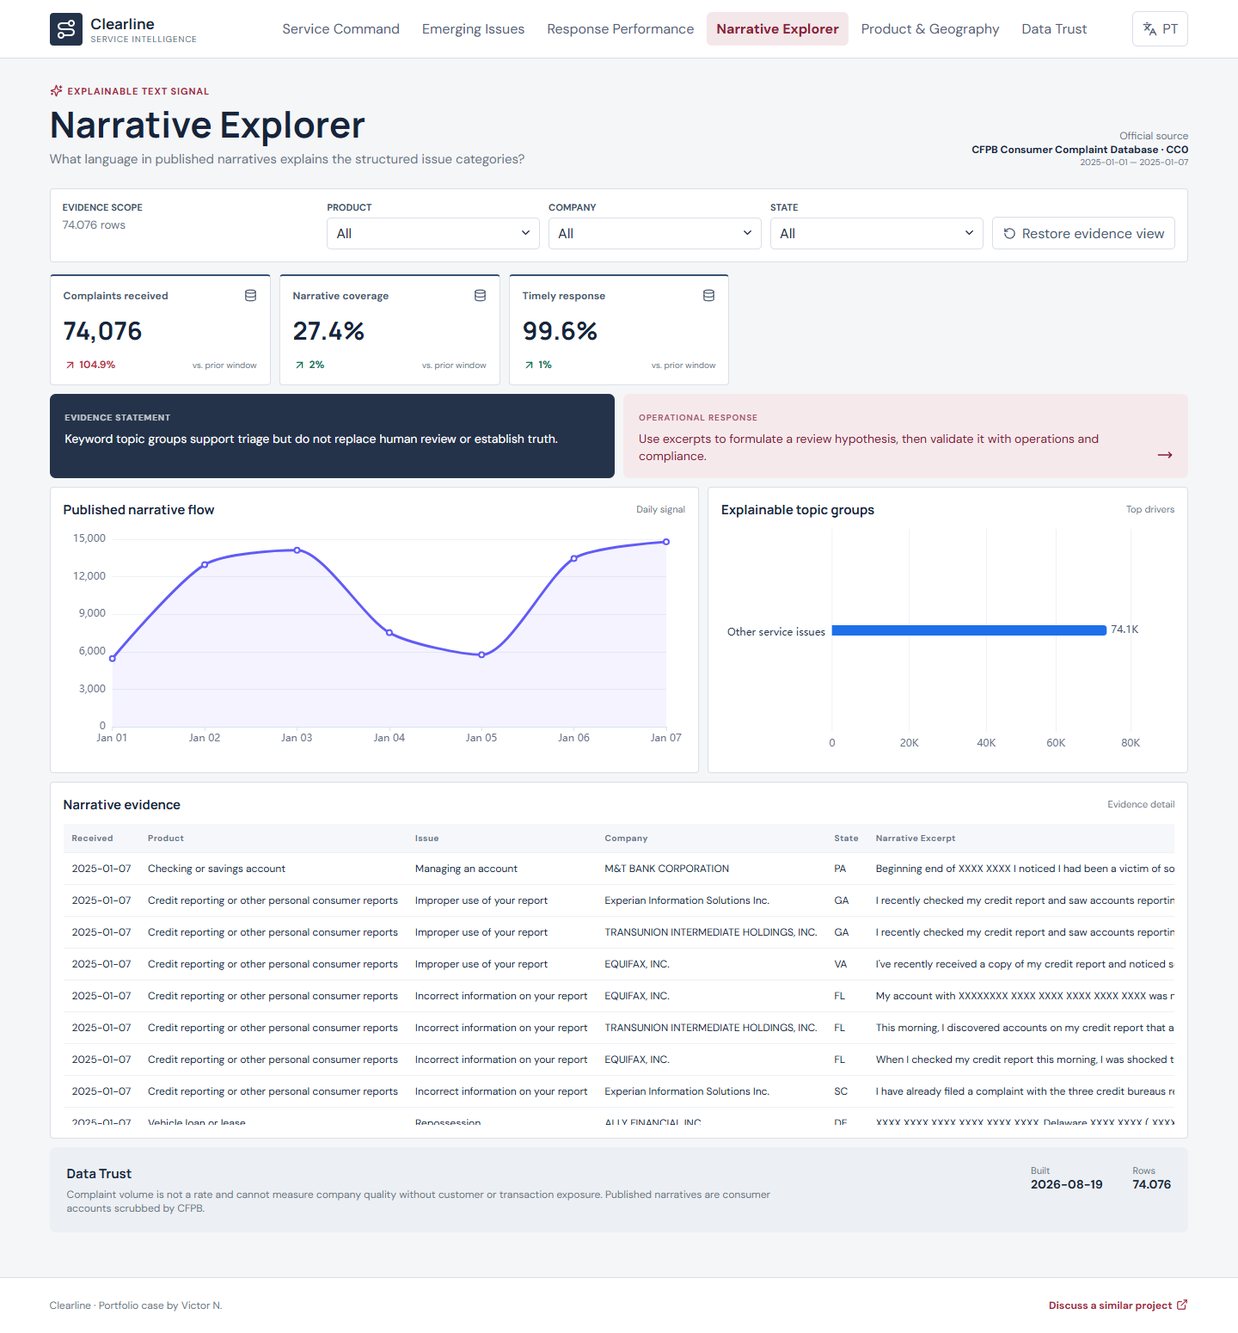
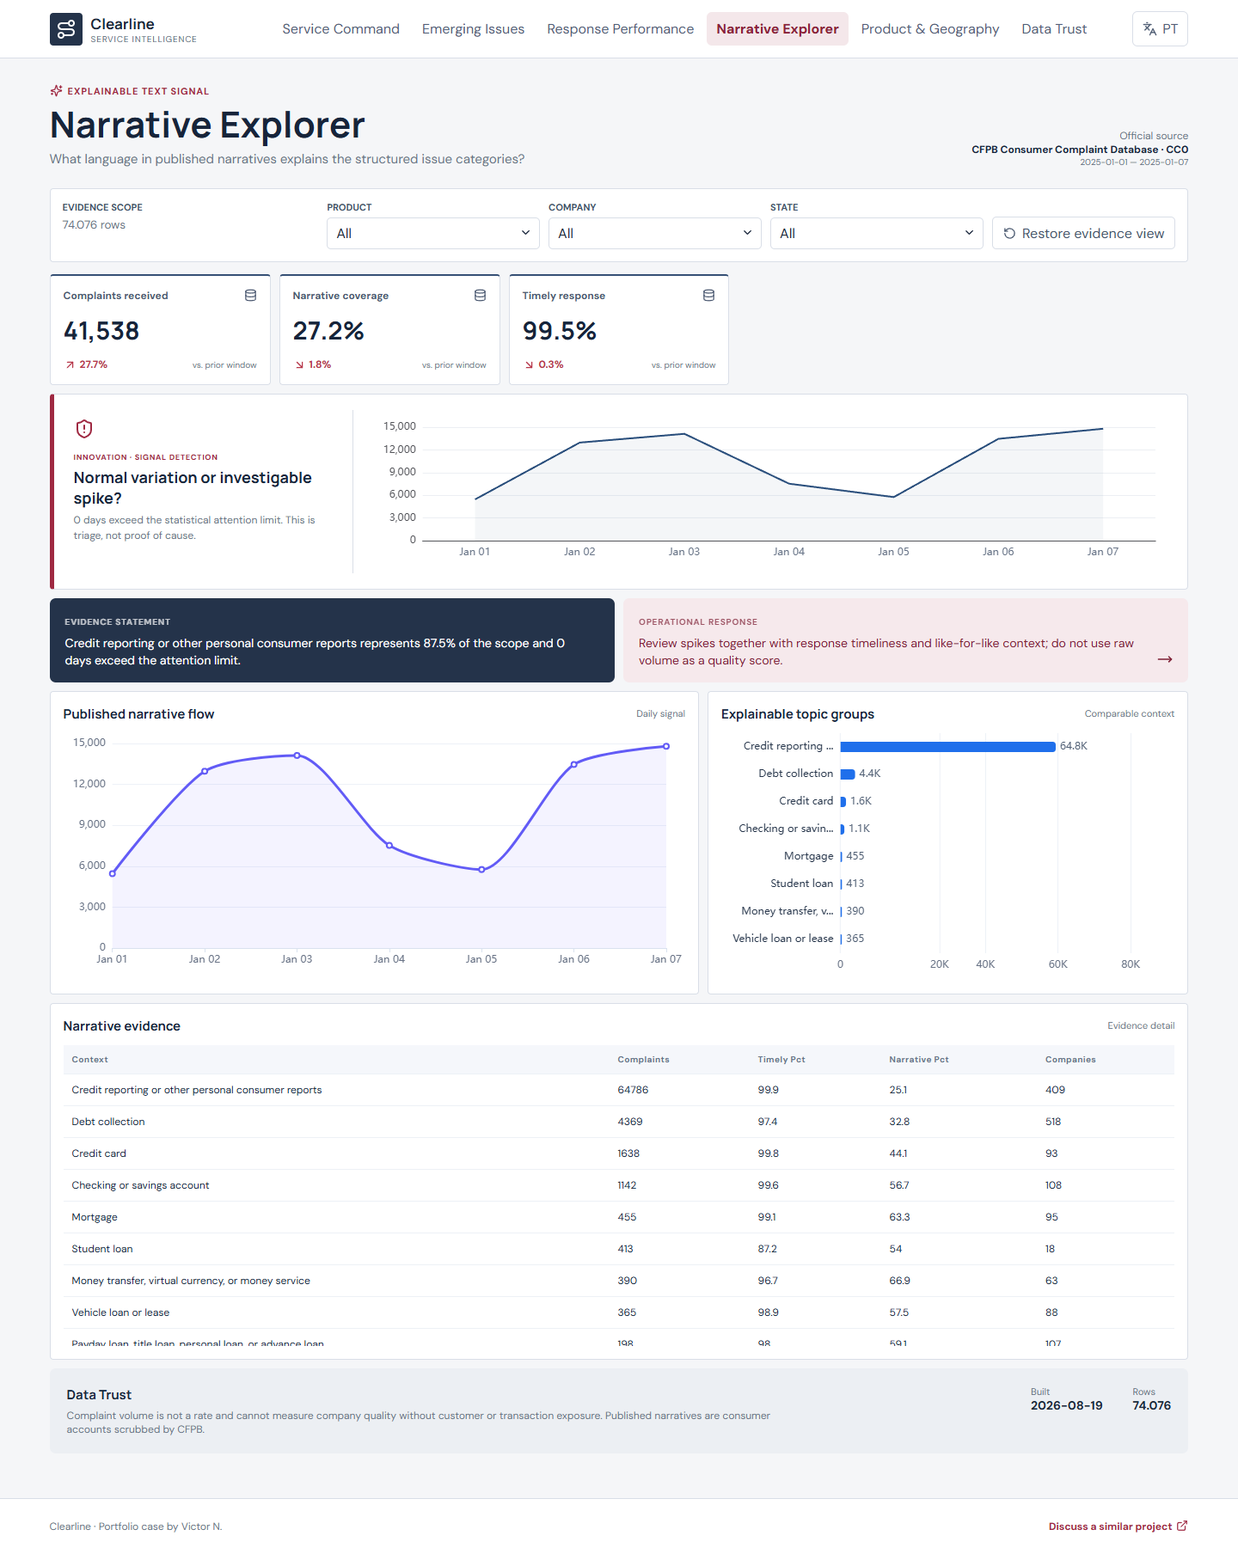
Add evidence-led signal detection workflow

diff --git a/src/App.tsx b/src/App.tsx
@@ -4,6 +4,7 @@ import { BarChart, DataGrid, DecisionNote, MetricCard, TrendChart } from './comp
 import { ui } from './i18n'
 import { MartVerifier } from './MartVerifier'
 import { queryMart, type MartResult } from './queryMart'
+import { IssueControlChart } from './innovation'
 import type { DashboardData, Lang } from './types'
 
 export default function App() {
@@ -12,24 +13,30 @@ export default function App() {
   const [pageId, setPageId] = useState('service')
   const [filters, setFilters] = useState({ channel: '', device: '', country: '' })
   const [mart, setMart] = useState<MartResult | null>(null)
+  const [queryState,setQueryState]=useState<'loading'|'ready'|'error'>('loading')
   useEffect(() => { fetch('./data/dashboard.json').then(r => r.json()).then(setData) }, [])
   useEffect(() => { localStorage.setItem('clearline-lang', lang); document.documentElement.lang = lang === 'pt' ? 'pt-BR' : 'en' }, [lang])
-  useEffect(() => { let active=true; if (!filters.channel && !filters.device && !filters.country) { setMart(null); return }; queryMart(filters).then(result => active && setMart(result)).catch(() => active && setMart(null)); return () => { active=false } }, [filters.channel, filters.device, filters.country])
+  useEffect(()=>{let active=true;setQueryState('loading');queryMart(filters,pageId).then(result=>{if(active){setMart(result);setQueryState('ready')}}).catch(error=>{console.error(error);if(active)setQueryState('error')});return()=>{active=false}},[filters.channel,filters.device,filters.country,pageId])
   if (!data) return <main className="loading"><Activity className="spin" /> Loading Clearline...</main>
   const page = data.pages.find(p => p.id === pageId) ?? data.pages[0]
   const metrics = page.metrics.map(metric => mart?.current[metric.id] === undefined ? metric : { ...metric, value: mart.current[metric.id], previous: mart.previous[metric.id] ?? metric.previous })
   const trend = mart?.trend.length ? mart.trend : page.trend
+  const breakdown=mart?.breakdown.length?mart.breakdown:page.breakdown,detail=mart?.detail.length?mart.detail:page.detail
+  const finding=mart?(lang==='pt'?`${mart.context.topDriver} representa ${(mart.context.topShare*100).toFixed(1)}% do recorte e ${mart.context.anomalies} dias excedem o limite de atenção.`:`${mart.context.topDriver} represents ${(mart.context.topShare*100).toFixed(1)}% of the scope and ${mart.context.anomalies} days exceed the attention limit.`):page.finding[lang]
+  const action=mart?(lang==='pt'?'Revise os picos em conjunto com prazo de resposta e contexto equivalente; não use volume bruto como nota de qualidade.':'Review spikes together with response timeliness and like-for-like context; do not use raw volume as a quality score.'):page.action[lang]
   const t = ui[lang]
-  const select = (label: string, key: keyof typeof filters, values: string[]) => <label className="filter"><span>{label}</span><div><select value={filters[key]} onChange={e => setFilters(v => ({ ...v, [key]: e.target.value }))}><option value="">{t.all}</option>{values.map(v => <option key={v}>{v}</option>)}</select><ChevronDown size={15} /></div></label>
+  const select = (label: string, key: keyof typeof filters, values: string[]) => <label className="filter"><span>{label}</span><div><select disabled={queryState==='loading'} value={filters[key]} onChange={e => setFilters(v => ({ ...v, [key]: e.target.value }))}><option value="">{t.all}</option>{values.map(v => <option key={v}>{v}</option>)}</select><ChevronDown size={15} /></div></label>
   return <div className="app-shell">
     <header className="topbar"><a className="brand" href="#top"><span className="brand-mark"><Route /></span><span><b>Clearline</b><small>Service Intelligence</small></span></a><nav>{data.pages.map(p => <button className={p.id === page.id ? 'active' : ''} onClick={() => setPageId(p.id)} key={p.id}>{p.title[lang]}</button>)}</nav><button className="language" onClick={() => setLang(lang === 'en' ? 'pt' : 'en')}><Languages size={17} />{lang === 'en' ? 'PT' : 'EN'}</button></header>
     <main id="top">
       <section className="page-head"><div><span className="eyebrow"><Sparkles size={15} />{page.eyebrow[lang]}</span><h1>{page.title[lang]}</h1><p>{page.question[lang]}</p></div><div className="source-stamp"><span>{t.source}</span><b>{data.meta.source}</b><small>{data.meta.period}</small></div></section>
       <section className="filterbar"><div className="filter-heading"><span>{t.filters}</span><small>{data.meta.rows.toLocaleString()} rows</small></div>{select(t.channel, 'channel', data.filters.channels)}{select(t.device, 'device', data.filters.devices)}{select(t.country, 'country', data.filters.countries)}<button className="reset" onClick={() => setFilters({ channel: '', device: '', country: '' })}><RotateCcw size={15} />{t.reset}</button></section>
       <section className="metrics">{metrics.map(metric => <MetricCard key={metric.id} metric={metric} lang={lang} prior={t.prior} />)}</section>
-      <section className="decision-strip"><DecisionNote title={t.finding}>{page.finding[lang]}</DecisionNote><DecisionNote title={t.action} action>{page.action[lang]}</DecisionNote></section>
-      <section className="analysis-grid"><article className="panel wide"><div className="panel-title"><h2>{page.trendTitle[lang]}</h2><span>Daily signal</span></div><TrendChart data={trend} lang={lang} /></article><article className="panel"><div className="panel-title"><h2>{page.breakdownTitle[lang]}</h2><span>Top drivers</span></div><BarChart data={page.breakdown} lang={lang} /></article></section>
-      <section className="panel detail"><div className="panel-title"><h2>{page.detailTitle[lang]}</h2><span>{t.details}</span></div><DataGrid rows={page.detail} /></section>
+      {queryState==='error'&&<div className="query-error" role="alert">{lang==='pt'?'Não foi possível recalcular o recorte.':'The selected scope could not be recalculated.'}</div>}
+      <IssueControlChart data={trend} lang={lang}/>
+      <section className={`decision-strip ${queryState==='loading'?'is-loading':''}`}><DecisionNote title={t.finding}>{finding}</DecisionNote><DecisionNote title={t.action} action>{action}</DecisionNote></section>
+      <section className="analysis-grid"><article className="panel wide"><div className="panel-title"><h2>{page.trendTitle[lang]}</h2><span>Daily signal</span></div><TrendChart data={trend} lang={lang} /></article><article className="panel"><div className="panel-title"><h2>{page.breakdownTitle[lang]}</h2><span>Comparable context</span></div><BarChart data={breakdown} lang={lang} /></article></section>
+      <section className="panel detail"><div className="panel-title"><h2>{page.detailTitle[lang]}</h2><span>{t.details}</span></div><DataGrid rows={detail} /></section>
       <section className="trust"><div><h2>{t.trust}</h2><p>{data.meta.limitations[lang]}</p>{page.id === 'trust' && <MartVerifier file="mart_response_performance.parquet" lang={lang}/>}</div><div><span>Built</span><b>{data.meta.builtAt}</b></div><div><span>Rows</span><b>{data.meta.rows.toLocaleString()}</b></div></section>
     </main>
     <footer><span>Clearline · Portfolio case by Victor N.</span><a href="mailto:comercial@wickoai.com.br">{t.contact}<ExternalLink size={14} /></a></footer>

diff --git a/src/queryMart.ts b/src/queryMart.ts
@@ -1,17 +1,15 @@
-import type { SeriesPoint } from './types'
-
-export type FilterState = { channel: string; device: string; country: string }
-export type MartResult = { current: Record<string, number>; previous: Record<string, number>; trend: SeriesPoint[] }
-let connectionPromise: Promise<import('@duckdb/duckdb-wasm').AsyncDuckDBConnection> | undefined
+import type { BreakdownRow,SeriesPoint } from './types'
+export type FilterState={channel:string;device:string;country:string}
+export type MartResult={current:Record<string,number>;previous:Record<string,number>;trend:SeriesPoint[];breakdown:BreakdownRow[];detail:Record<string,string|number>[];context:{topDriver:string;topShare:number;anomalies:number}}
+let connectionPromise:Promise<import('@duckdb/duckdb-wasm').AsyncDuckDBConnection>|undefined
 const literal=(value:string)=>`'${value.replaceAll("'","''")}'`
-
-async function connection(){
-  if(!connectionPromise) connectionPromise=(async()=>{const d=await import('@duckdb/duckdb-wasm');const b=await d.selectBundle(d.getJsDelivrBundles());const workerUrl=URL.createObjectURL(new Blob([`importScripts("${b.mainWorker!}");`],{type:'text/javascript'}));const db=new d.AsyncDuckDB(new d.ConsoleLogger(),new Worker(workerUrl));await db.instantiate(b.mainModule,b.pthreadWorker);await db.registerFileURL('complaints.parquet',new URL('./data/mart_complaints.parquet',window.location.href).href,d.DuckDBDataProtocol.HTTP,false);return db.connect()})()
-  return connectionPromise
-}
-
-export async function queryMart(filters:FilterState):Promise<MartResult>{
-  const con=await connection();const clauses=[filters.channel&&`product=${literal(filters.channel)}`,filters.device&&`company=${literal(filters.device)}`,filters.country&&`state=${literal(filters.country)}`].filter(Boolean);const where=clauses.length?`where ${clauses.join(' and ')}`:''
-  const metrics=async(period:'current'|'previous')=>{const op=period==='current'?'>=':'<';const t=await con.query(`with base as(select * from read_parquet('complaints.parquet') ${where}),bounds as(select min(received_date) lo,max(received_date) hi from base),scoped as(select b.* from base b,bounds where received_date ${op} lo+((hi-lo)/2)::integer) select count(*)::double complaints,avg(timely)::double timely,count(distinct company)::double companies,avg(has_narrative)::double narratives,avg(monetary_relief)::double relief,count(distinct product)::double products,count(distinct received_date)::double coverage_days from scoped`);const r=t.get(0) as Record<string,unknown>;return Object.fromEntries(Object.entries(r).map(([k,v])=>[k,Number(v??0)])) as Record<string,number>}
-  const current=await metrics('current'),previous=await metrics('previous');const t=await con.query(`select strftime(received_date,'%b %d') as period_label,count(*)::double as metric_value from read_parquet('complaints.parquet') ${where} group by received_date order by received_date`);return{current,previous,trend:t.toArray().map(r=>({label:String(r.period_label),value:Number(r.metric_value)}))}
+async function connection(){if(!connectionPromise)connectionPromise=(async()=>{const d=await import('@duckdb/duckdb-wasm'),b=await d.selectBundle(d.getJsDelivrBundles()),workerUrl=URL.createObjectURL(new Blob([`importScripts("${b.mainWorker!}");`],{type:'text/javascript'})),db=new d.AsyncDuckDB(new d.ConsoleLogger(),new Worker(workerUrl));await db.instantiate(b.mainModule,b.pthreadWorker);await db.registerFileURL('complaints.parquet',new URL('./data/mart_complaints.parquet',window.location.href).href,d.DuckDBDataProtocol.HTTP,false);return db.connect()})();return connectionPromise}
+const records=(table:{toArray:()=>Record<string,unknown>[]})=>table.toArray().map(row=>Object.fromEntries(Object.entries(row).map(([k,v])=>[k,typeof v==='bigint'?Number(v):v]))) as Record<string,string|number>[]
+let queryQueue:Promise<void>=Promise.resolve()
+export function queryMart(filters:FilterState,pageId:string):Promise<MartResult>{const result=queryQueue.then(()=>runQuery(filters,pageId));queryQueue=result.then(()=>undefined,()=>undefined);return result}
+async function runQuery(filters:FilterState,pageId:string):Promise<MartResult>{const con=await connection(),clauses=[filters.channel&&`product=${literal(filters.channel)}`,filters.device&&`company=${literal(filters.device)}`,filters.country&&`state=${literal(filters.country)}`].filter(Boolean),where=clauses.length?`where ${clauses.join(' and ')}`:''
+ const metrics=async(period:'current'|'previous')=>{const op=period==='current'?'>=':'<',t=await con.query(`with base as(select * from read_parquet('complaints.parquet') ${where}),bounds as(select min(received_date) lo,max(received_date) hi from base),scoped as(select b.* from base b,bounds where received_date ${op} lo+((hi-lo)/2)::integer) select count(*)::double complaints,avg(timely)::double timely,count(distinct company)::double companies,avg(has_narrative)::double narratives,avg(monetary_relief)::double relief,count(distinct product)::double products,count(distinct received_date)::double coverage_days from scoped`),r=t.get(0) as Record<string,unknown>;return Object.fromEntries(Object.entries(r).map(([k,v])=>[k,Number(v??0)])) as Record<string,number>}
+ const current=await metrics('current'),previous=await metrics('previous'),trendTable=await con.query(`select strftime(received_date,'%b %d') period_label,count(*)::double metric_value from read_parquet('complaints.parquet') ${where} group by received_date order by received_date`),dimension=pageId==='response'?'company':pageId==='context'?'state':'product',breakdownTable=await con.query(`select ${dimension} as driver_name,count(*)::double as driver_value from read_parquet('complaints.parquet') ${where} group by 1 order by driver_value desc limit 12`),detailTable=await con.query(`select ${dimension} as context,count(*)::double as complaints,round(100*avg(timely),1)::double as timely_pct,round(100*avg(has_narrative),1)::double as narrative_pct,count(distinct company)::double as companies from read_parquet('complaints.parquet') ${where} group by 1 order by complaints desc limit 25`)
+ const trend=trendTable.toArray().map(r=>({label:String(r.period_label),value:Number(r.metric_value)})),mean=trend.reduce((s,r)=>s+r.value,0)/(trend.length||1),sd=Math.sqrt(trend.reduce((s,r)=>s+(r.value-mean)**2,0)/(trend.length||1)),breakdown=records(breakdownTable).map(r=>({name:String(r.driver_name??'Unknown'),value:Number(r.driver_value??0)})),total=breakdown.reduce((s,r)=>s+r.value,0)
+ return{current,previous,trend,breakdown,detail:records(detailTable),context:{topDriver:breakdown[0]?.name??'N/A',topShare:total?breakdown[0].value/total:0,anomalies:trend.filter(r=>r.value>mean+2*sd).length}}
 }

diff --git a/src/components.tsx b/src/components.tsx
@@ -31,14 +31,14 @@ export function MetricCard({ metric, lang, prior }: { metric: Metric; lang: Lang
 
 export function TrendChart({ data, lang }: { data: SeriesPoint[]; lang: Lang }) {
   const option = { animationDuration: 450, grid: { left: 12, right: 22, top: 24, bottom: 18, containLabel: true }, tooltip: { trigger: 'axis', valueFormatter: (v: number) => new Intl.NumberFormat(lang === 'pt' ? 'pt-BR' : 'en-US').format(v) }, xAxis: { type: 'category', data: data.map(d => d.label), boundaryGap: false, axisLine: { lineStyle: { color: '#d9e2ef' } }, axisLabel: { color: '#697386' } }, yAxis: { type: 'value', splitLine: { lineStyle: { color: '#edf1f7' } }, axisLabel: { color: '#697386' } }, series: [{ type: 'line', data: data.map(d => d.value), smooth: .25, symbolSize: 6, lineStyle: { width: 3, color: '#625bf6' }, itemStyle: { color: '#625bf6' }, areaStyle: { color: 'rgba(98,91,246,.10)' } }] }
-  return <ReactEChartsCore echarts={echarts} option={option} style={{ height: 280 }} />
+  return <div className="chart-viewport"><ReactEChartsCore echarts={echarts} option={option} style={{height:300,width:'100%'}} /></div>
 }
 
 export function BarChart({ data, lang }: { data: BreakdownRow[]; lang: Lang }) {
   const sorted = [...data].sort((a,b) => a.value - b.value).slice(-8)
   const compact = (value: number) => new Intl.NumberFormat(lang === 'pt' ? 'pt-BR' : 'en-US', { notation: 'compact', maximumFractionDigits: 1 }).format(value)
   const option = { animationDuration: 450, grid: { left: 12, right: 52, top: 12, bottom: 12, containLabel: true }, tooltip: { trigger: 'axis', axisPointer: { type: 'shadow' } }, xAxis: { type: 'value', splitNumber: 4, splitLine: { lineStyle: { color: '#edf1f7' } }, axisLabel: { color: '#697386', formatter: compact } }, yAxis: { type: 'category', data: sorted.map(d => d.name), axisLine: { show: false }, axisTick: { show: false }, axisLabel: { color: '#27364b', width: 120, overflow: 'truncate' } }, series: [{ type: 'bar', data: sorted.map(d => d.value), barWidth: 12, itemStyle: { color: '#1f6feb', borderRadius: [0, 4, 4, 0] }, label: { show: true, position: 'right', color: '#415269', formatter: (p: { value: number }) => compact(p.value) } }] }
-  return <ReactEChartsCore echarts={echarts} option={option} style={{ height: 280 }} />
+  return <div className="chart-viewport"><ReactEChartsCore echarts={echarts} option={option} style={{height:300,width:'100%'}} /></div>
 }
 
 export function DataGrid({ rows }: { rows: Record<string, string | number>[] }) {

diff --git a/src/innovation.tsx b/src/innovation.tsx
@@ -1,0 +1,9 @@
+import ReactEChartsCore from 'echarts-for-react/lib/core'
+import * as echarts from 'echarts/core'
+import { LineChart } from 'echarts/charts'
+import { GridComponent,MarkLineComponent,TooltipComponent } from 'echarts/components'
+import { CanvasRenderer } from 'echarts/renderers'
+import { ShieldAlert } from 'lucide-react'
+import type { Lang,SeriesPoint } from './types'
+echarts.use([LineChart,GridComponent,MarkLineComponent,TooltipComponent,CanvasRenderer])
+export function IssueControlChart({data,lang}:{data:SeriesPoint[];lang:Lang}){const mean=data.reduce((s,r)=>s+r.value,0)/(data.length||1),sd=Math.sqrt(data.reduce((s,r)=>s+(r.value-mean)**2,0)/(data.length||1)),limit=mean+2*sd,anomalies=data.filter(r=>r.value>limit).length,option={animationDuration:350,grid:{left:12,right:20,top:20,bottom:18,containLabel:true},tooltip:{trigger:'axis'},xAxis:{type:'category',data:data.map(r=>r.label),axisLabel:{color:'#697588'}},yAxis:{type:'value',splitLine:{lineStyle:{color:'#eceff3'}}},series:[{type:'line',data:data.map(r=>({value:r.value,itemStyle:{color:r.value>limit?'#b63649':'#284d7b'}})),showSymbol:false,lineStyle:{color:'#284d7b',width:2},areaStyle:{color:'rgba(40,77,123,.07)'},markLine:{symbol:'none',label:{formatter:lang==='pt'?'Limite de atenção':'Attention limit'},lineStyle:{color:'#b63649',type:'dashed'},data:[{yAxis:limit}]}}]};return <section className="control"><div className="control-copy"><ShieldAlert/><span>{lang==='pt'?'INOVAÇÃO · DETECÇÃO DE SINAL':'INNOVATION · SIGNAL DETECTION'}</span><h2>{lang==='pt'?'Variação normal ou pico investigável?':'Normal variation or investigable spike?'}</h2><p>{lang==='pt'?`${anomalies} dias ultrapassam o limite estatístico de atenção. Isso é triagem, não prova de causa.`:`${anomalies} days exceed the statistical attention limit. This is triage, not proof of cause.`}</p></div><div className="chart-viewport"><ReactEChartsCore echarts={echarts} option={option} style={{height:190,width:'100%'}}/></div></section>}

diff --git a/src/styles.css b/src/styles.css
@@ -7,3 +7,4 @@
 .mart-verify{margin-top:12px;border:1px solid var(--line);background:#fff;color:var(--accent);border-radius:4px;padding:8px 10px;display:flex;align-items:center;gap:7px;font-weight:700;font-size:11px;cursor:pointer}.mart-verify.ready{color:var(--green)}.mart-verify.error{color:var(--red)}
 :root{--line:#d9dee7;--ink:#1c2738;--muted:#697588;--accent:#9f2942;--blue:#284d7b;--green:#187256;--red:#b63649}
 body{background:#f5f6f8}.brand-mark{border-radius:4px;background:#24334a}.topbar nav button.active{background:#f4e7ea;color:#8b2037}.eyebrow{color:#9f2942}.decision-note{background:#24334a}.decision-note.action{background:#f6e9ec;color:#7d1f34}.metric-card{border-top:2px solid #314c72}.trust{background:#eceff3}.panel,.metric-card,.filterbar{border-radius:4px}
+.chart-viewport{width:100%;min-width:0;overflow:hidden}.query-error{margin:10px 0;padding:11px 14px;border:1px solid #e2a9ad;background:#fff2f3;color:var(--red);border-radius:4px}.is-loading{opacity:.58}.control{display:grid;grid-template-columns:330px 1fr;gap:24px;align-items:center;margin:10px 0;background:#fff;border:1px solid var(--line);border-left:5px solid #9f2942;border-radius:4px;padding:18px}.control-copy{align-self:stretch;padding:10px 18px 10px 5px;border-right:1px solid var(--line)}.control-copy>svg{color:#9f2942}.control-copy span{display:block;margin-top:10px;font-size:9px;letter-spacing:.08em;color:#9f2942;font-weight:700}.control-copy h2{font:700 18px Manrope;margin:5px 0}.control-copy p{font-size:12px;color:var(--muted);line-height:1.5;margin:0}@media(max-width:800px){.control{grid-template-columns:1fr}.control-copy{border-right:0;border-bottom:1px solid var(--line)}}

diff --git a/README.md b/README.md
@@ -52,3 +52,6 @@ Validate with `python -m pipeline validate`, `pytest`, `npm test`, `npm run buil
 A production version would combine CRM tickets, contact-center events, account exposure, SLA policies, and quality-review outcomes. [Discuss a similar project](mailto:comercial@wickoai.com.br).
 
 See [Portuguese documentation](README.pt-BR.md), [complete dashboard guide](docs/DASHBOARD_GUIDE.md), [metric catalog](docs/METRIC_CATALOG.md), and [demo guide](docs/DEMO_GUIDE.md).
+# Design innovation
+
+The **Signal Detection Control Chart** separates expected variation from days above a statistical attention limit. It supports triage without presenting complaint volume as causality, prevalence, or a company quality score.

diff --git a/docs/DASHBOARD_GUIDE.pt-BR.md b/docs/DASHBOARD_GUIDE.pt-BR.md
@@ -97,4 +97,7 @@ Azul-marinho e bordô, conclusões sustentadas, cards contidos e limitações ex
 ## Limites
 
 Volume não é taxa; a base não representa todos os clientes; nomes não implicam irregularidade; relatos não são fatos verificados; regras textuais não estabelecem causalidade; e compensação não mede perda, justiça ou qualidade de solução.
+# Interação principal: Gráfico de Controle de Sinais
+
+Use pontos acima do limite de atenção como gatilhos de investigação e depois compare prazo de resposta e contexto equivalente de produto, empresa, estado e período. O gráfico de controle é uma ferramenta de triagem, não prova de que uma organização causou a mudança.
 

diff --git a/docs/DASHBOARD_GUIDE.md b/docs/DASHBOARD_GUIDE.md
@@ -113,4 +113,7 @@ The navy and burgundy palette, evidence statements, restrained cards, and explic
 - Narratives are consumer accounts, not independently verified facts.
 - Topic rules support triage and do not establish causality or regulatory findings.
 - Monetary relief share does not measure loss, fairness, or resolution quality.
+# Signature interaction: Signal Detection Control Chart
+
+Use points above the attention limit as investigation prompts, then compare response timeliness and like-for-like product, company, state, and period context. The control chart is a triage device, not proof that an organization caused a change.
 

diff --git a/README.pt-BR.md b/README.pt-BR.md
@@ -33,3 +33,6 @@ npm run dev
 ```
 
 O case demonstra governança de evidências, métricas de resposta, análise textual interpretável, interface bilíngue e limitações explícitas. [Contato](mailto:comercial@wickoai.com.br).
+# Inovação de design
+
+O **Gráfico de Controle de Sinais** separa variação esperada de dias acima de um limite estatístico de atenção. Ele apoia triagem sem apresentar volume de reclamações como causalidade, prevalência ou nota de qualidade da empresa.
